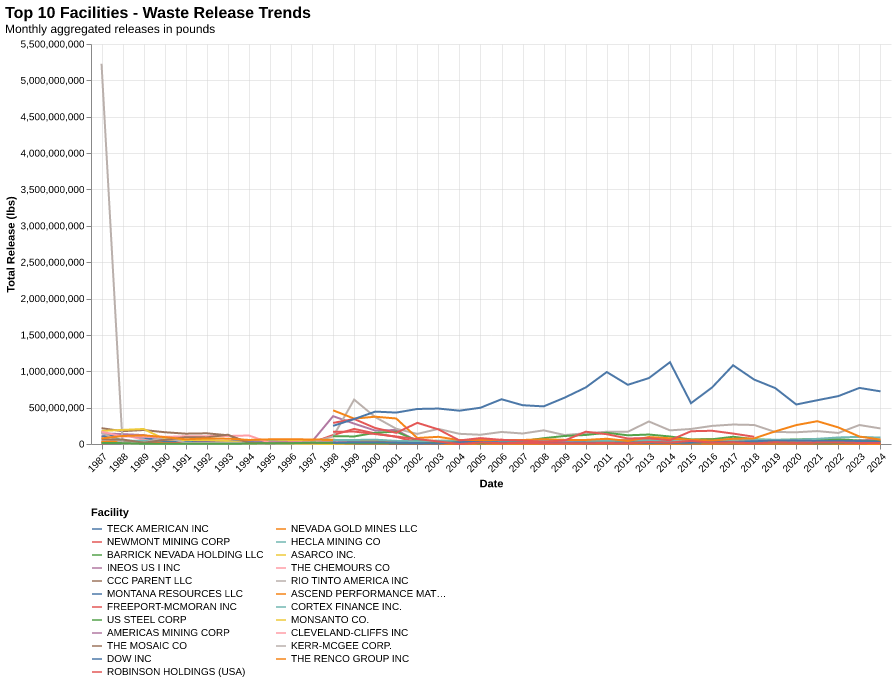
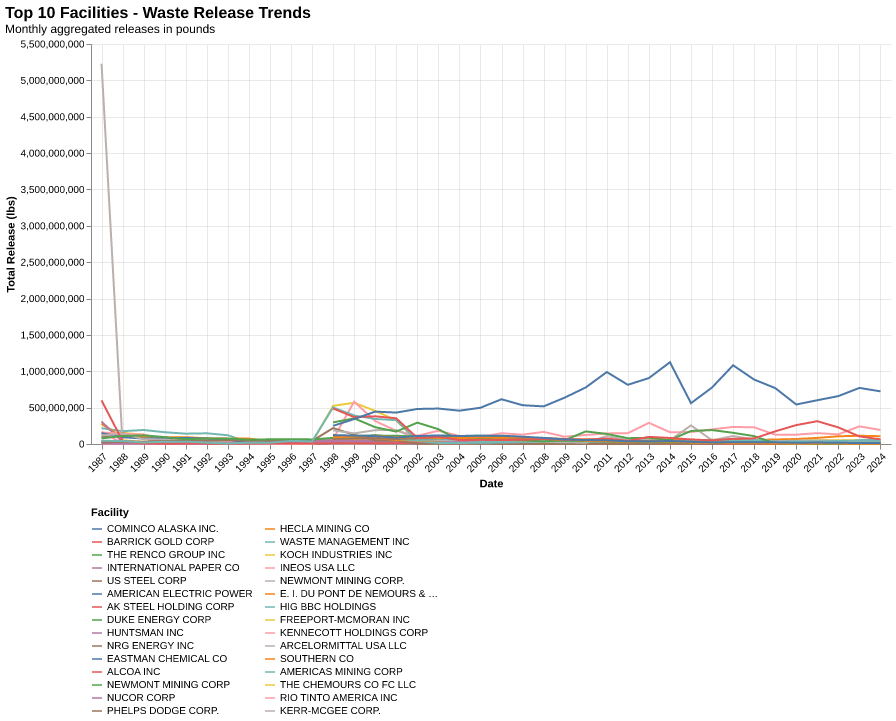
Fixed the total_waste_throughout_top_10 (actaully outputs top 30 need to update it to top 30)
1.Removes null values
2.added a DENSE_RANK() Window function, to shwo proper ranking.
3. Query is alot faster since we don't double join at the end.

added the updated query to queries.json

updated the chart with the updated query.

README.md needs an update.

Changed region(s): [[0.0, 0.154, 1.0, 1.0], [0.0, 0.0, 0.3438, 0.1232], [0.125, 0.4619, 0.1562, 0.4927]]

diff --git a/Frontend/save_queries_to_json.py b/Frontend/save_queries_to_json.py
@@ -74,10 +74,11 @@ queries = {
         ORDER BY total_release DESC;
     """,
 
-    "Total_Waste_Throughout_top_10": """
-        WITH latest_facility_location AS (
-            SELECT DISTINCT ON (tri_facility_id) 
-                tri_facility_id,
+    "Total_Waste_Throughout_top_10": 
+    '''       
+        WITH distinct_facility AS (
+            SELECT DISTINCT ON(tri_facility_id)
+                tri_facility_id as id,
                 CASE
                     WHEN parent_name IS NOT NULL 
                         AND UPPER(parent_name) NOT IN ('NA', 'NAN', 'N/A', 'NULL') 
@@ -92,38 +93,45 @@ queries = {
                         AND UPPER(epa_standardized_foreign_parent) NOT IN ('NA', 'NAN', 'N/A', 'NULL')
                         THEN epa_standardized_foreign_parent
                     ELSE NULL
-                END AS parent
-            FROM tri_facility_history
-            ORDER BY tri_facility_id, create_date DESC
+                END AS facility_name
+            FROM tri_facility_history 
         ),
-        facility_monthly_totals AS (
-            SELECT 
-                trf.tri_facility_id,
-                trf.reporting_year,
-                SUM(tft.total_offsite_release::NUMERIC + tft.total_onsite_release::NUMERIC) AS total_release
-            FROM tri_reporting_form trf
-            JOIN tri_form_total tft ON trf.doc_ctrl_num = tft.doc_ctrl_num
-            GROUP BY trf.tri_facility_id, trf.reporting_year
+        distinct_facility_by_year AS (
+            SELECT DISTINCT df.facility_name as facility_name, trf.reporting_year as year, trf.doc_ctrl_num as doc_ctrl_num
+            FROM distinct_facility df
+            JOIN tri_reporting_form trf ON trf.tri_facility_id = df.id
+            Where df.facility_name IS NOT NULL 
+            ORDER BY trf.reporting_year
         ),
+        
         top_10_facilities AS (
             SELECT 
-                trf.tri_facility_id
-            FROM tri_reporting_form trf
-            JOIN tri_form_total tft ON trf.doc_ctrl_num = tft.doc_ctrl_num
-            GROUP BY trf.tri_facility_id
-            ORDER BY SUM(tft.total_offsite_release::NUMERIC + tft.total_onsite_release::NUMERIC) DESC
-            LIMIT 30
+                df.facility_name as facility_name,
+                SUM(tft.total_offsite_release::NUMERIC + tft.total_onsite_release::NUMERIC) AS total_release,
+                DENSE_RANK() OVER(ORDER BY SUM(tft.total_offsite_release::NUMERIC + tft.total_onsite_release::NUMERIC) DESC) as most_waste_rank
+            FROM distinct_facility_by_year df
+            JOIN tri_form_total tft ON df.doc_ctrl_num = tft.doc_ctrl_num
+            GROUP BY df.facility_name
+        ),
+        
+        facility_yearly_totals AS (
+            SELECT 
+                df.facility_name as facility_name,
+                df.year as year,
+                SUM(tft.total_offsite_release::NUMERIC + tft.total_onsite_release::NUMERIC) AS total_release
+            FROM distinct_facility_by_year df
+            JOIN tri_form_total tft ON df.doc_ctrl_num = tft.doc_ctrl_num
+            GROUP BY df.facility_name, df.year
+            ORDER BY year
         )
-        SELECT 
-            lfl.parent AS name,
-            fmt.reporting_year,
-            ROUND(SUM(fmt.total_release), 2) AS total_release
-        FROM facility_monthly_totals fmt
-        JOIN top_10_facilities t10 ON fmt.tri_facility_id = t10.tri_facility_id
-        JOIN latest_facility_location lfl ON fmt.tri_facility_id = lfl.tri_facility_id
-        GROUP BY lfl.parent, fmt.reporting_year
-        ORDER BY fmt.reporting_year, lfl.parent;
-    """,
+                
+        SELECT fyt.facility_name as name, fyt.year as reporting_year, fyt.total_release as total_release
+        FROM facility_yearly_totals fyt
+        JOIN top_10_facilities ttf ON ttf.facility_name = fyt.facility_name
+        WHERE ttf.most_waste_rank <= 30
+        Order By reporting_year;
+    ''',
+    
     "Total_Waste_Top_10_Vs_Rest_Facilities":
         """
         WITH latest_facility_location AS (
@@ -198,3 +206,61 @@ for x in queries:
     queries[x] = " ".join(queries[x].split())
 with open('queries.json', 'w') as f:
     json.dump(queries, f, indent=4)
+    
+'''        
+
+    WITH distinct_facility AS (
+            SELECT DISTINCT ON(tri_facility_id)
+                tri_facility_id as id,
+                CASE
+                    WHEN parent_name IS NOT NULL 
+                        AND UPPER(parent_name) NOT IN ('NA', 'NAN', 'N/A', 'NULL') 
+                        THEN parent_name
+                    WHEN epa_standardized_parent IS NOT NULL 
+                        AND UPPER(epa_standardized_parent) NOT IN ('NA', 'NAN', 'N/A', 'NULL')
+                        THEN epa_standardized_parent
+                    WHEN name IS NOT NULL 
+                        AND UPPER(name) NOT IN ('NA', 'NAN', 'N/A', 'NULL')
+                        THEN name
+                    WHEN epa_standardized_foreign_parent IS NOT NULL 
+                        AND UPPER(epa_standardized_foreign_parent) NOT IN ('NA', 'NAN', 'N/A', 'NULL')
+                        THEN epa_standardized_foreign_parent
+                    ELSE NULL
+                END AS facility_name
+            FROM tri_facility_history 
+        ),
+        distinct_facility_by_year AS (
+            SELECT DISTINCT df.facility_name as facility_name, trf.reporting_year as year, trf.doc_ctrl_num as doc_ctrl_num
+            FROM distinct_facility df
+            JOIN tri_reporting_form trf ON trf.tri_facility_id = df.id
+            Where df.facility_name IS NOT NULL 
+            ORDER BY trf.reporting_year
+        ),
+        
+        top_10_facilities AS (
+            SELECT 
+                df.facility_name as facility_name,
+                SUM(tft.total_offsite_release::NUMERIC + tft.total_onsite_release::NUMERIC) AS total_release,
+                DENSE_RANK() OVER(ORDER BY SUM(tft.total_offsite_release::NUMERIC + tft.total_onsite_release::NUMERIC) DESC) as most_waste_rank
+            FROM distinct_facility_by_year df
+            JOIN tri_form_total tft ON df.doc_ctrl_num = tft.doc_ctrl_num
+            GROUP BY df.facility_name
+        ),
+        
+        facility_yearly_totals AS (
+            SELECT 
+                df.facility_name as facility_name,
+                df.year as year,
+                SUM(tft.total_offsite_release::NUMERIC + tft.total_onsite_release::NUMERIC) AS total_release
+            FROM distinct_facility_by_year df
+            JOIN tri_form_total tft ON df.doc_ctrl_num = tft.doc_ctrl_num
+            GROUP BY df.facility_name, df.year
+            ORDER BY year
+        )
+                
+        SELECT fyt.facility_name, fyt.year, fyt.total_release
+        FROM facility_yearly_totals fyt
+        JOIN top_10_facilities ttf ON ttf.facility_name = fyt.facility_name
+        WHERE ttf.most_waste_rank <= 30
+        Order By fyt.year;
+'''

diff --git a/README.md b/README.md
@@ -5,7 +5,7 @@
 ### This goal of this project is answer questions such as:
 
 1. What facility was involved in dumping the most throughout the years?
-    1. 1987 
+    1. **1987 Kree Mcgee Corp**
         * After analysis the total_waste_throughout_top_10.html chart. We see a massive gap between **Kree Mcgee Corp** and other facilities during the 1987 approximately 5.2 billons of pounds worth of waste gap. While I can't seem to find the articles for the specific year, I did find articles about Kerr Mcgee prior to 1987. 
         
             According to the DARRP(Damage Assement Remedition, and Restoration Program) between 1979-1980 Kerr Mcgee dismantled one of its creosote wood-treating facilities located at "250-acre parcel of land adjacent to the Cape Fear River, Brunswick River and Sturgeon Creek in Navassa, North Carolina."(DARRP), which then released Creosote and sludge, which then led to the release of SVOC (Semi Volatile Organic Compound) spefcically the PAH(Polycyclic Aromatic Hydrocarbon) which is released to soils, groundwater, and surronding marsh sediments sites. According to my database (which I got the data from EPA.gov) PAH is a Cancer Causing PBT chemical.
@@ -24,15 +24,19 @@
         The Activites of Kerr Mcgee stops at 2001 according to my analysis(go to in [Top 30 Facility visualization](#visualization)), due to all the legal pushback and brought by Anadrako Petroleum at 2006
     
         https://www.sec.gov/Archives/edgar/data/773910/000095012906007908/h38749exv99w1.htm
-    2. 1998
+    2. **1998 Neveda Gold Mines LLC (Joint venture between Barrick and Newmon)**
         * We see a small spike **Neveda Gold Mines LLC** (Joint venture between Barrick and Newmont as of 2019), primary toxic chemical being released is mercury. According to Greg Jones and Glenn Miller. Amount of mercury released into the atomospehere from gold mines has not been systematically measured and reported, and reliable estimates were not available, they were esitmate based on the EPA's series of emisson factor requirements. but during 1997 metal mining companies were required to report to the EPA as the beginning of 1998, thus we see according to our graph([Top 30 Facility visualization](#visualization)) that Neveda Gold Mines LLC waste data begins at 1998. 
         
         * According to Miller and Jones Neveda Gold Mines released 3700 lbs of mercury air emission in 1998, Barrick released 13,629 tons of Mercury by-product in 1999, Newmont released 16,264 lbs of mercury by product in 1989. 
-        * We can speculate that Majority of the pollution at the State of Utah and Neveda came from these Gold Mines([By State 2003 - 2025](#visualization)). Accoriding to my State Waste map 2003 - 2025 and 2020s most of the pollution occured in Lands. 
-
-
+        
+        * We can speculate that Majority of the pollution at the State of Utah and Neveda came from these Gold Mines([By State 2003 - 2025](#visualization)). Accoriding to my State Waste map 2003 - 2025 and 2020s most of the pollution occured in Lands with metal related chemicals such as mercury or mercury related compounds. 
+        
         https://downloads.regulations.gov/EPA-HQ-SFUND-2015-0781-2119/content.pdf
 
+    3. **1999 (Rio Tinto America Inc)**:
+
+        * 
+        
 ### Visualization:
 1. Line chart depicting the trends of waste dumped by Top 10 facility(with the most toxic waste dumped) throughout the years.
 